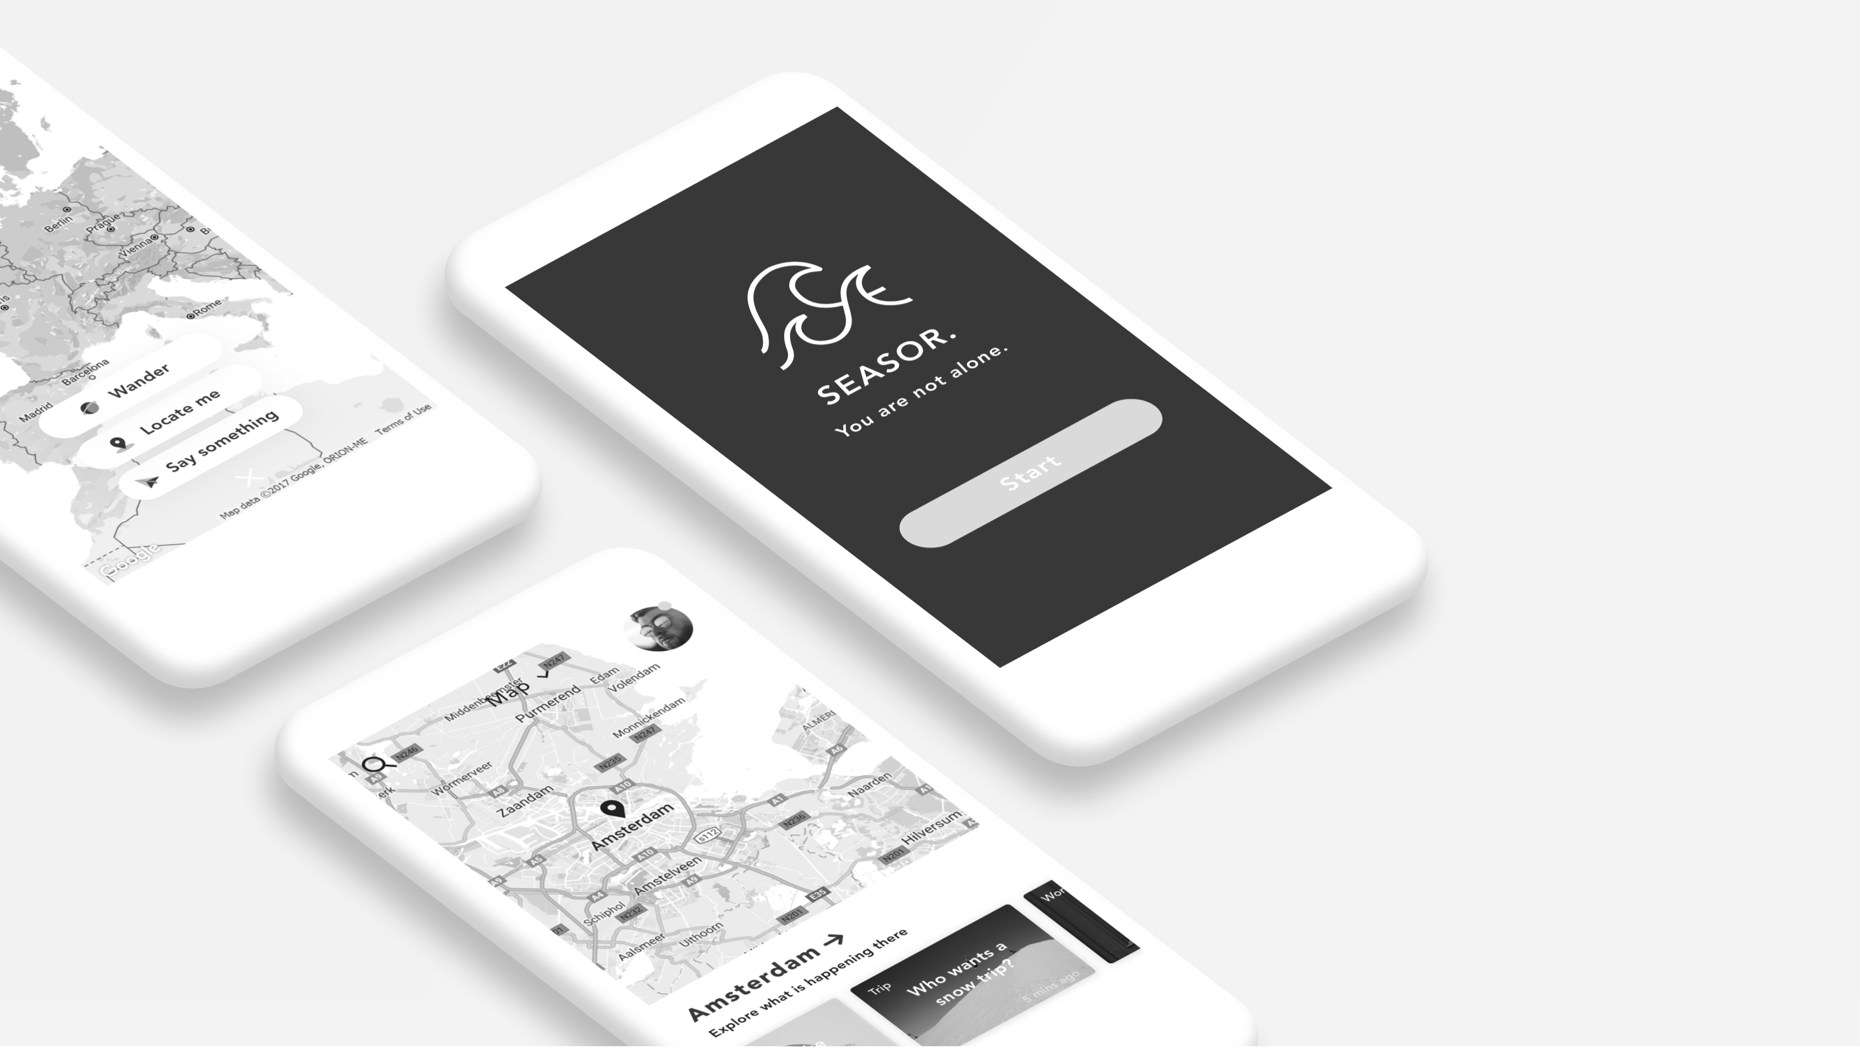
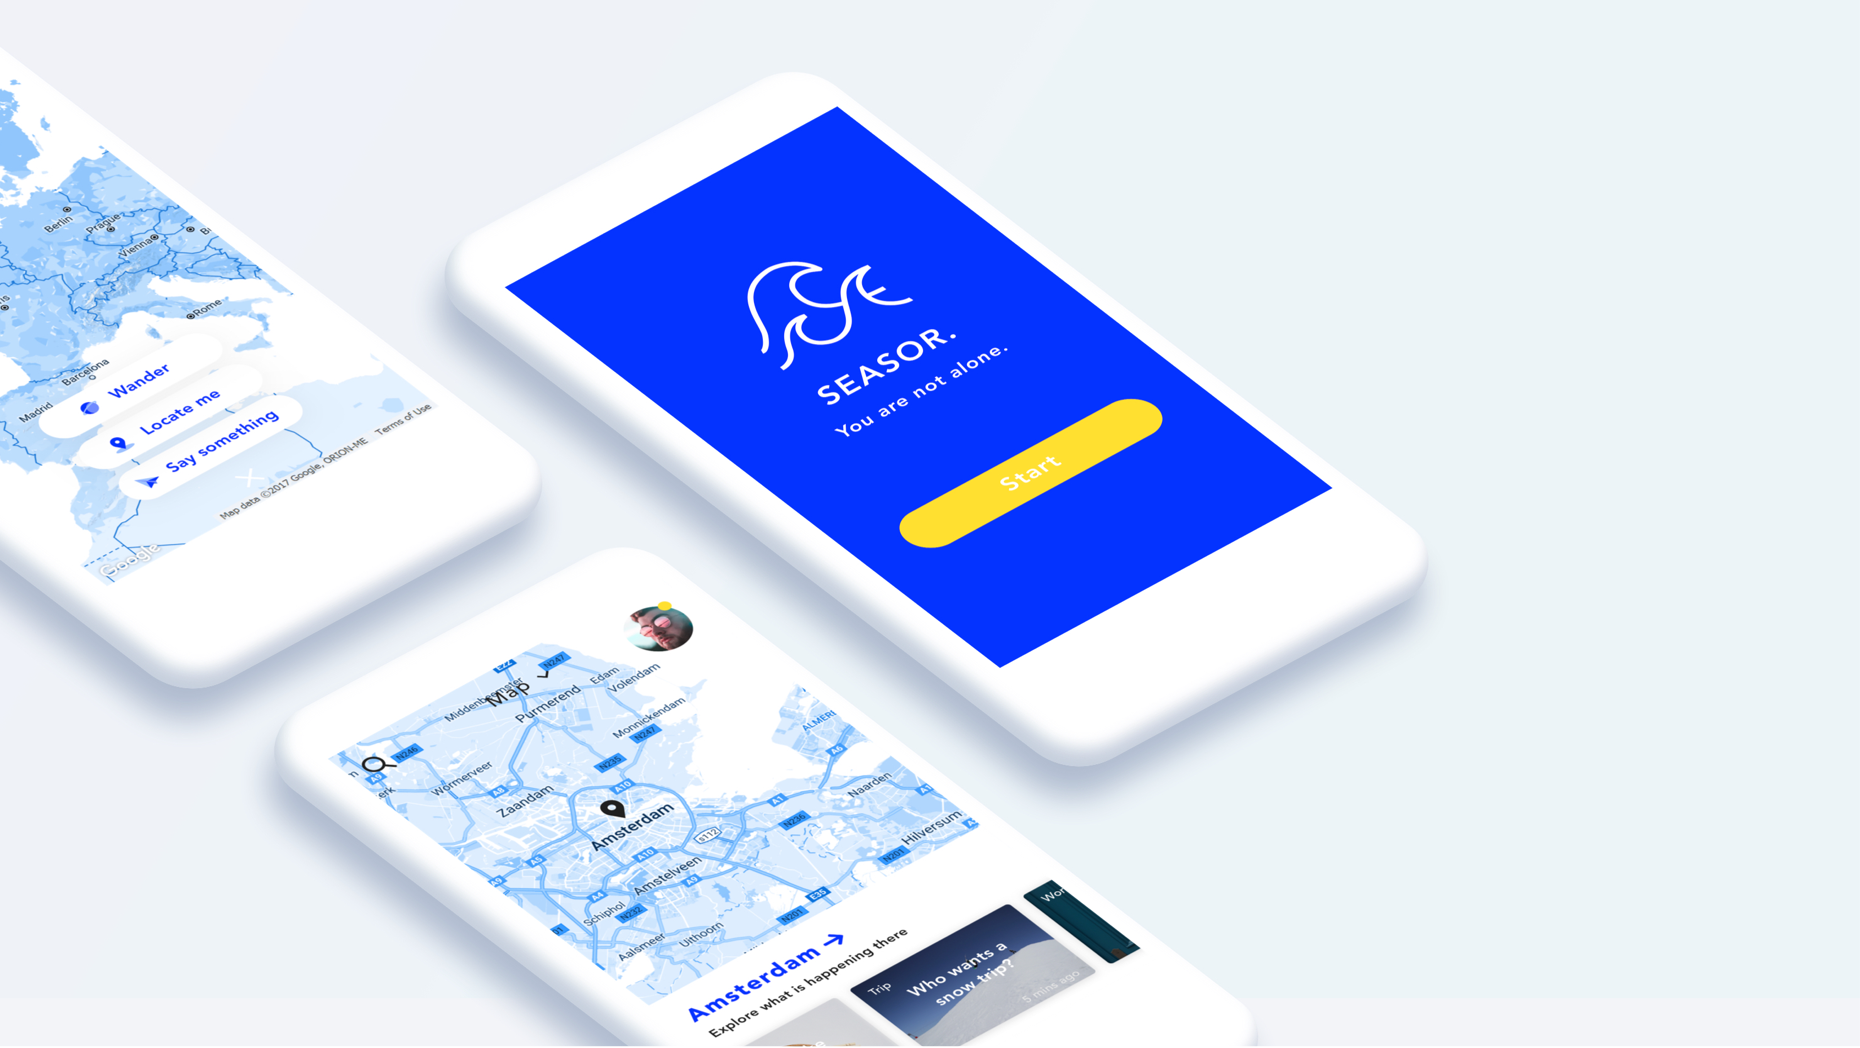
project hover grayscale

diff --git a/assets/css/nikka.css b/assets/css/nikka.css
@@ -331,15 +331,26 @@ section, footer {
     margin: 0 auto;
 }
 
+
 .seasor {
     height: auto;
     display: block;
 } 
 
 
-.uxproject .seasor img {
+.seasor img {
+     -webkit-filter: grayscale(100);
+	filter: grayscale(100);
     width: 100%;    
+    -webkit-transition: .3s ease-in-out;
+	transition: .3s ease-in-out;
 }
+ 
+.seasor a:hover img {
+    -webkit-filter: grayscale(0);
+	filter: grayscale(0);
+}
+
 
 .bluebox-container {
     display: flex;
@@ -359,53 +370,95 @@ section, footer {
 	padding-top: 100%; 	/* initial ratio of 1:1*/
 }
 
-.uxproject .yc {
+.yc {
     width: 100%;
     height: auto;
 }
 
-.uxproject .yc img {
-    width: 100%;    
+.yc img {
+    width: 100%;   
+     -webkit-filter: grayscale(100);
+	filter: grayscale(100);   
+    -webkit-transition: .3s ease-in-out;
+	transition: .3s ease-in-out;
 }
 
-.uxproject .maison {
+.yc a:hover img {
+    -webkit-filter: grayscale(0);
+	filter: grayscale(0);
+}
+
+.maison {
     width: 100%;
     height: auto;
 }
 
-.uxproject .maison img{
+.maison img{
     width: 100%;
-
+     -webkit-filter: grayscale(100);
+	filter: grayscale(100);   
+    -webkit-transition: .3s ease-in-out;
+	transition: .3s ease-in-out;
 }
 
+.maison a:hover img {
+    -webkit-filter: grayscale(0);
+	filter: grayscale(0);
+}
 .printplus {
     height: auto;
     display: block;
     margin-top: 80px;
 } 
 
-
-.uxproject .printplus img {
-    width: 100%;    
+.printplus img{
+    width: 100%;
+     -webkit-filter: grayscale(100);
+	filter: grayscale(100);
+    -webkit-transition: .3s ease-in-out;
+	transition: .3s ease-in-out;
 }
 
-.uxproject .tacit {
+.printplus a:hover img {
+    -webkit-filter: grayscale(0);
+	filter: grayscale(0);
+}
+
+
+.tacit {
     width: 100%;
     height: auto;
 }
 
-.uxproject .tacit img {
-    width: 100%;    
+.tacit img{
+    width: 100%;
+     -webkit-filter: grayscale(100);
+	filter: grayscale(100);
+    -webkit-transition: .3s ease-in-out;
+	transition: .3s ease-in-out;
 }
 
-.uxproject .cuptocup {
+.tacit a:hover img {
+    -webkit-filter: grayscale(0);
+	filter: grayscale(0);
+}
+
+.cuptocup {
     width: 100%;
     height: auto;
 }
 
-.uxproject .cuptocup img{
+.cuptocup img{
     width: 100%;
+    -webkit-filter: grayscale(100);
+	filter: grayscale(100);
+    -webkit-transition: .3s ease-in-out;
+	transition: .3s ease-in-out;
+}
 
+.cuptocup a:hover img {
+    -webkit-filter: grayscale(0);
+	filter: grayscale(0);
 }
 
 /* ----------- work page end ------------- */

diff --git a/work.html b/work.html
@@ -49,7 +49,7 @@
 				<div class="col-sm-4 offset-sm-4 ">
 					<div class="YC">
                         <a href="work/youngcapital.html">
-                            <img src="assets/image/bg-yc-2.png" alt="youngcapital website screenshots">
+                            <img src="assets/image/bg-yc.png" alt="youngcapital website screenshots">
                         </a> 
 					</div>
 				</div>
@@ -59,7 +59,7 @@
 				<div class="col-sm-4 offset-sm-8" >
 					<div class="maison">
                         <a href="work/maisonfloolipe.html">
-                            <img src="assets/image/bg-MF-grey.png" alt="maison floolipe website screenshots">
+                            <img src="assets/image/bg-MF.png" alt="maison floolipe website screenshots">
                         </a> 
 					</div>
 				</div>
@@ -69,7 +69,7 @@
 				<div class="col-sm-8 offset-sm-4" ><!-- make this relative-->
 					<div class="printplus"><!-- make this absolute -->
                         <a href="work/printplus.html">
-                            <img src="assets/image/bg-printplus-grey.png" alt="printplus project 3D printed headphone">
+                            <img src="assets/image/bg-printplus-2.png" alt="printplus project 3D printed headphone">
                         </a> 
 					</div>        
 				</div>              
@@ -83,7 +83,7 @@
 				<div class="col-sm-4 offset-sm-4">
 					<div class="tacit">
                         <a href="work/tacit.html">
-                            <img src="assets/image/bg-tacit.png" alt="ambient lighting system">
+                            <img src="assets/image/bg-tacit.jpg" alt="ambient lighting system">
                         </a> 
 					</div>
 				</div>
@@ -93,7 +93,7 @@
 				<div class="col-sm-4 offset-sm-8 ">
 					<div class="cuptocup">
                         <a href="work/cuptocup.html">
-                            <img src="assets/image/bg-cup-grey.png" alt="service designed to help the elderly get grocery">
+                            <img src="assets/image/bg-cup.png" alt="service designed to help the elderly get grocery">
                         </a> 
 					</div>
 				</div>
@@ -102,10 +102,7 @@
             
 		</div>
         
-        
-      
-        
-        
+     
 		<nav class="main-nav fixed">
 			<ul class="nav">
 				<li>
